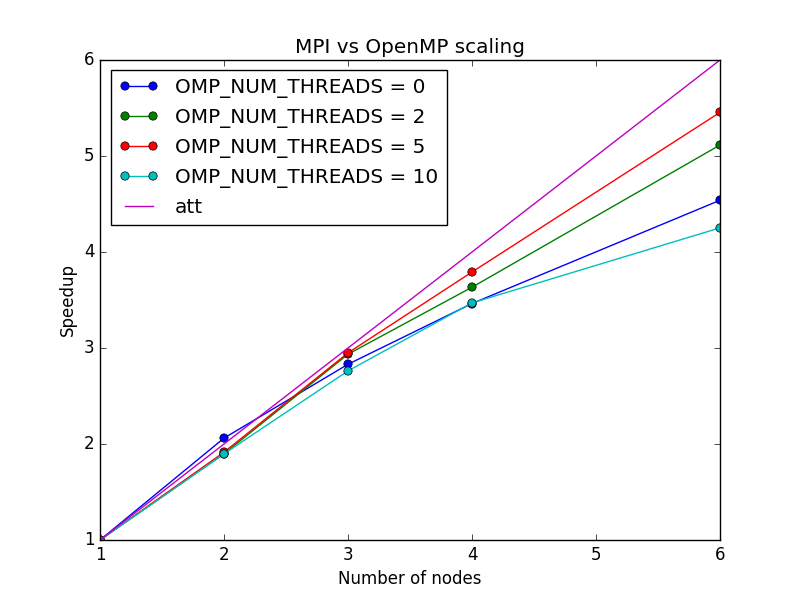
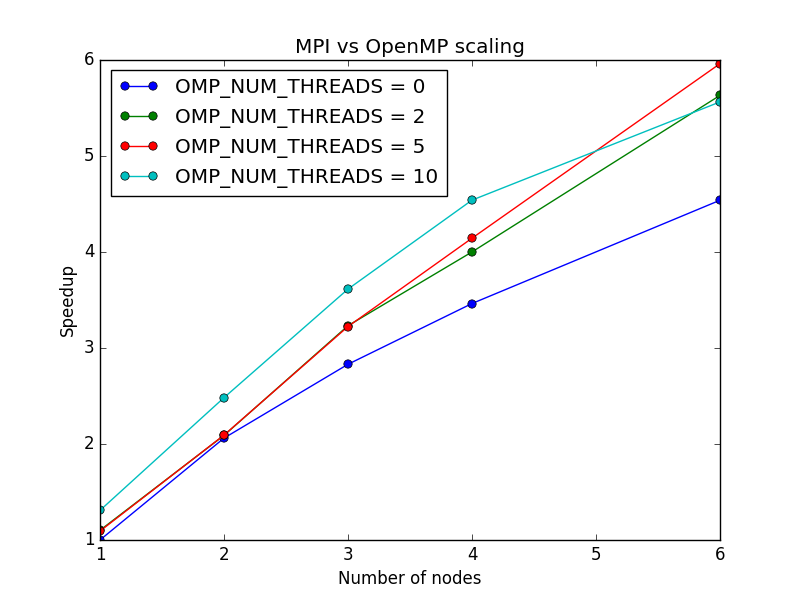
last commit

diff --git a/D6-assignment/last_plot.py b/D6-assignment/last_plot.py
@@ -15,9 +15,9 @@ t4 = mat3[:,1]
 # th = np.array(nth, dtype = int)
 # sp = np.array(t, dtype = float)
 speed  = np.array([t1[0] / t1[i] for i in range(len(t1))])
-speed1 = np.array([t2[0] / t2[i] for i in range(len(t2))])
-speed2 = np.array([t3[0] / t3[i] for i in range(len(t3))])
-speed3 = np.array([t4[0] / t4[i] for i in range(len(t4))])
+speed1 = np.array([t1[0] / t2[i] for i in range(len(t2))])
+speed2 = np.array([t1[0] / t3[i] for i in range(len(t3))])
+speed3 = np.array([t1[0] / t4[i] for i in range(len(t4))])
 
 print(th)
 print(speed)
@@ -27,7 +27,7 @@ plt.plot(th, speed,  '-o', label = 'OMP_NUM_THREADS = 0')
 plt.plot(th, speed1, '-o', label = 'OMP_NUM_THREADS = 2')
 plt.plot(th, speed2, '-o', label = 'OMP_NUM_THREADS = 5')
 plt.plot(th, speed3, '-o', label = 'OMP_NUM_THREADS = 10')
-plt.plot(th, th, label = 'att')
+# plt.plot(th, th, label = 'att')
 plt.xlabel("Number of nodes")
 plt.ylabel("Speedup")
 plt.title("MPI vs OpenMP scaling")
